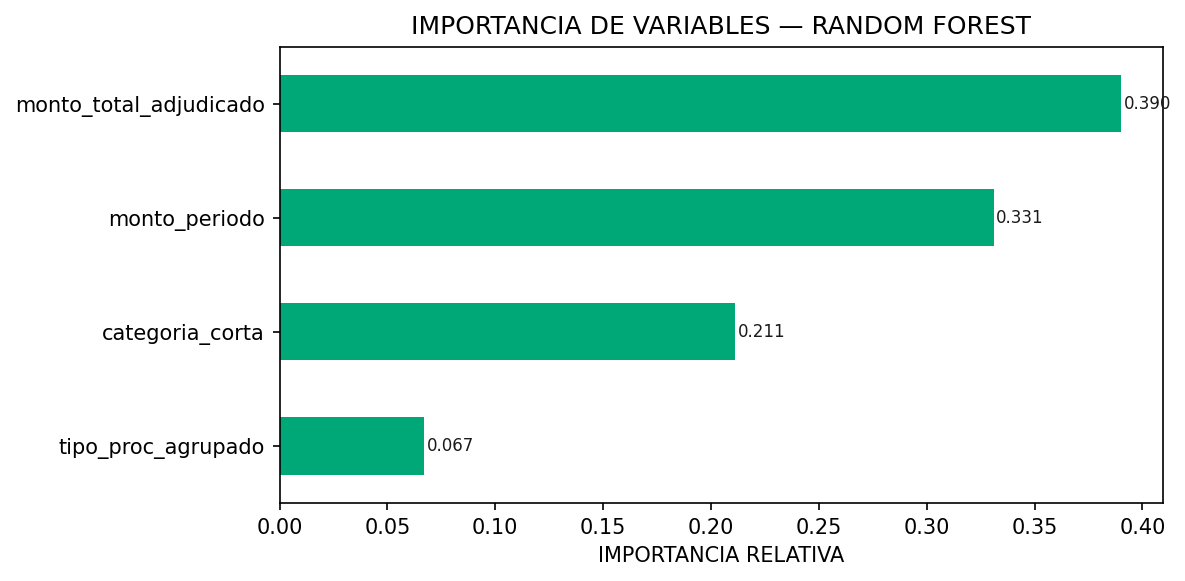
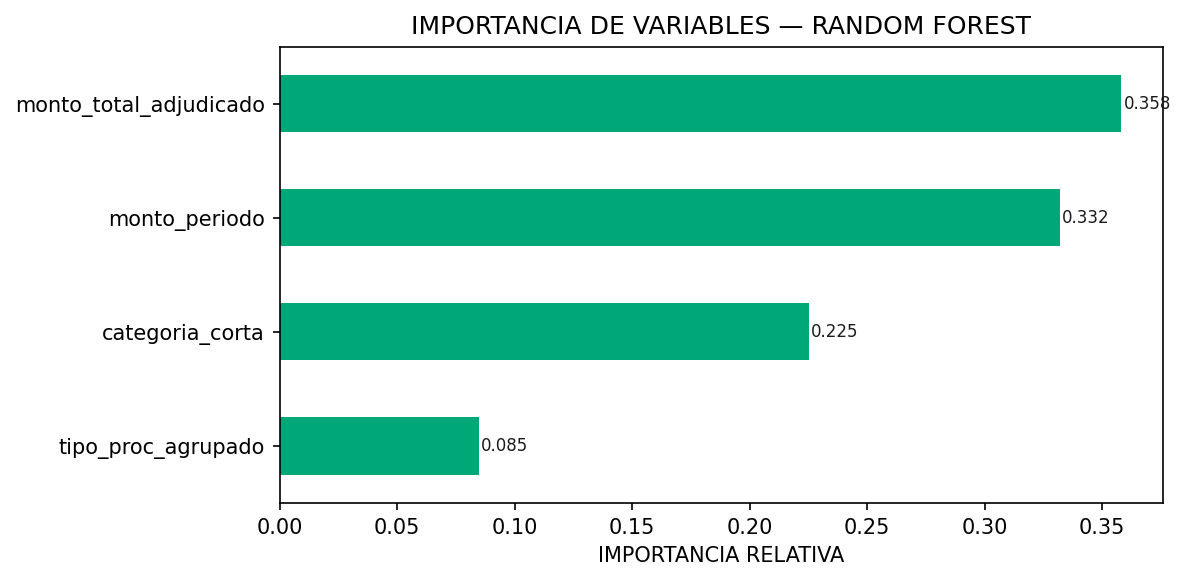
fix(clasificacion): corregir preprocesamiento y métricas del notebook 3
- Reemplaza LabelEncoder por OneHotEncoder para variables categóricas,
  eliminando la asunción de orden numérico que rompía la Regresión Logística
- Agrega StandardScaler para variables numéricas (requerido por LR)
- Mueve el split antes del fit del preprocesador para evitar data leakage
- Agrega ColumnTransformer para aplicar transformaciones por tipo de columna
- Corrige la interpretación de la matriz de confusión (FP > FN, el modelo
  sobreestima la competencia, no la subestima)
- Actualiza métricas en el informe: LR pasa de accuracy 0.43 a 0.76,
  RF se mantiene en 0.90

https://claude.ai/code/session_01WvYaBRNFMNKU4mz8izyMnN

diff --git a/reports/informe_final.md b/reports/informe_final.md
@@ -188,46 +188,53 @@ Split 80/20 con estratificación:
 
 **Features utilizadas:**
 
-| Feature | Tipo |
-|---|---|
-| tipo_proc_agrupado | Categórica (LabelEncoder) |
-| categoria_corta | Categórica (LabelEncoder) |
-| monto_total_adjudicado | Numérica |
-| monto_periodo | Numérica |
+| Feature | Tipo | Preprocesamiento |
+|---|---|---|
+| tipo_proc_agrupado | Categórica | OneHotEncoder |
+| categoria_corta | Categórica | OneHotEncoder |
+| monto_total_adjudicado | Numérica | StandardScaler |
+| monto_periodo | Numérica | StandardScaler |
+
+Las variables categóricas se codificaron con OneHotEncoder (una columna binaria
+por categoría), evitando la asunción de orden numérico entre categorías. Las
+variables numéricas se estandarizaron con StandardScaler para que la Regresión
+Logística pueda operar correctamente sobre features en escalas distintas. El
+preprocesador se fitea exclusivamente sobre el conjunto de entrenamiento.
 
 ### Resultados
 
 | Modelo | Accuracy | F1 (clase 0) | F1 (clase 1) |
 |---|---|---|---|
-| Regresión Logística | 0.43 | 0.00 | 0.60 |
-| Random Forest | 0.90 | 0.91 | 0.89 |
+| Regresión Logística | 0.76 | 0.79 | 0.71 |
+| Random Forest | 0.90 | 0.90 | 0.89 |
 
-La Regresión Logística falló completamente — predijo siempre clase 1,
-incapaz de separar las clases con relaciones lineales. El Random Forest
-capturó las relaciones no lineales y alcanzó 90% de accuracy con F1
-balanceado entre clases.
+Ambos modelos lograron separar las clases. La Regresión Logística alcanzó
+76% de accuracy con F1 balanceado — resultado razonable para un modelo lineal
+sobre datos con relaciones complejas. El Random Forest superó ampliamente con
+90% de accuracy y F1 consistente entre clases, confirmando que las relaciones
+en el dataset son fundamentalmente no lineales.
 
 ### Matriz de confusión — Random Forest
 
 |  | Predicho: Sin competencia | Predicho: Con competencia |
 |---|---|---|
-| **Real: Sin competencia** | 2.493 ✓ | 377 ✗ |
-| **Real: Con competencia** | 114 ✗ | 2.020 ✓ |
+| **Real: Sin competencia** | 2.462 ✓ | 408 ✗ |
+| **Real: Con competencia** | 109 ✗ | 2.025 ✓ |
 
-El modelo comete más errores clasificando procesos con competencia como
-sin competencia (114 Falsos Negativos) que al revés (377 Falsos Positivos).
-Tiende a subestimar la competencia real, no a sobreestimarla.
+El modelo comete más errores clasificando procesos sin competencia como
+con competencia (408 Falsos Positivos) que al revés (109 Falsos Negativos).
+Tiende a sobreestimar la competencia real, no a subestimarla.
 
 ### Importancia de variables
 
 | Variable | Importancia |
 |---|---|
-| monto_total_adjudicado | 0.390 |
-| monto_periodo | 0.331 |
-| categoria_corta | 0.211 |
-| tipo_proc_agrupado | 0.067 |
+| monto_total_adjudicado | 0.358 |
+| monto_periodo | 0.332 |
+| categoria_corta | 0.225 |
+| tipo_proc_agrupado | 0.085 |
 
-El monto explica el 72% del poder predictivo combinado con `monto_periodo`.
+El monto explica el 69% del poder predictivo combinado con `monto_periodo`.
 El tipo de procedimiento tiene el menor peso — la presencia o ausencia de
 competencia está determinada principalmente por el valor del contrato y
 la categoría del bien o servicio, no por la modalidad legal elegida.
@@ -353,9 +360,9 @@ revela patrones estructurales relevantes:
   control — el 12% de todos los procesos anuales se concentran en un solo mes.
 
 **Sobre los modelos:**
-- El Random Forest superó a los modelos lineales en clasificación (F1=0.90)
-  y regresión (R²=0.95), confirmando que las relaciones en datos de
-  contratación pública son fundamentalmente no lineales.
+- El Random Forest superó a la Regresión Logística en clasificación (F1=0.90
+  vs 0.75 macro) y en regresión (R²=0.95 vs 0.34), confirmando que las
+  relaciones en datos de contratación pública son fundamentalmente no lineales.
 - El monto del contrato es el predictor más importante tanto para predecir
   competencia como para predecir el monto mismo — el tamaño del contrato
   determina su naturaleza.
